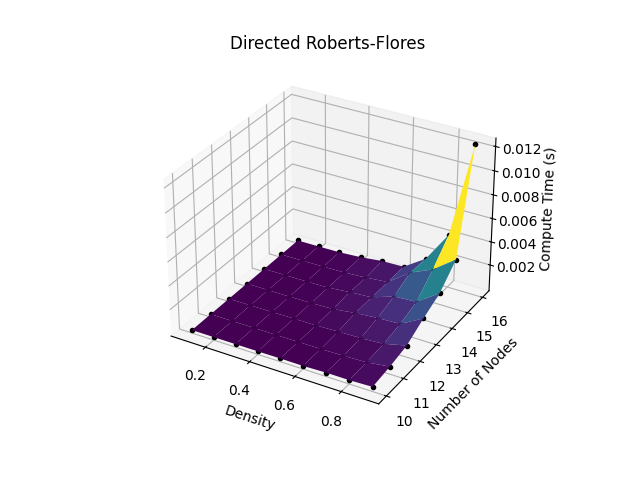
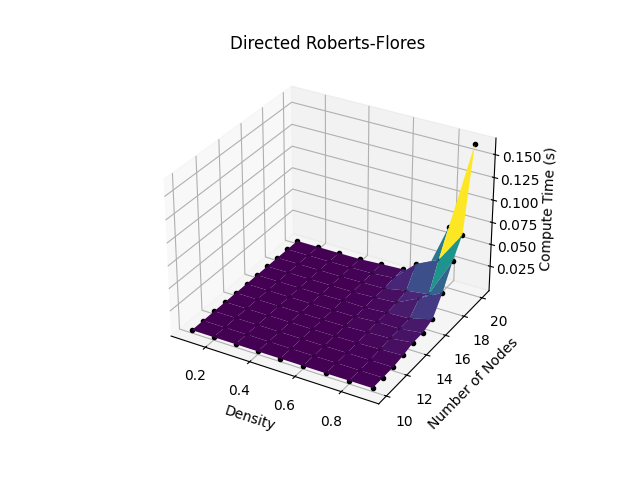
new figures and small adjustments

diff --git a/DirectedFleury.py b/DirectedFleury.py
@@ -89,20 +89,20 @@ class DirectedFleury:
                         else:
                             self.gm[i][j] = -(lb[i][k] + lb[i][k + 1])
 
-    def __eulerian(self, v, start):
+    def __eulerian(self, v):
         for i in range(self.v):
             if 0 <= self.gm[v][i] <= self.v:
                 self.gm[v][i] = -1
                 self.gm[i][v] = -1
 
-                self.__eulerian(i, start)
+                self.__eulerian(i)
 
         self.path.append(v)
 
     def find(self):
         start = 0
 
-        self.__eulerian(start, start)
+        self.__eulerian(start)
         path = self.path[::-1]
 
         if path[0] == path[-1] and len(path) == self.e + 1:

diff --git a/UndirectedFleury.py b/UndirectedFleury.py
@@ -27,20 +27,20 @@ class UndirectedFleury:
                 self.am[a][b] = 1
                 self.am[b][a] = 1
 
-    def __eulerian(self, v, start):
+    def __eulerian(self, v):
         for i in range(self.v):
             if self.am[v][i] == 1:
                 self.am[v][i] = 0
                 self.am[i][v] = 0
 
-                self.__eulerian(i, start)
+                self.__eulerian(i)
 
         self.path.append(v)
 
     def find(self):
         start = 0
 
-        self.__eulerian(start, start)
+        self.__eulerian(start)
         path = self.path[::-1]
 
         if path[0] == path[-1] and len(path) == self.e + 1:

diff --git a/tests.py b/tests.py
@@ -1,5 +1,5 @@
-from random import random
-from time import perf_counter
+from random import random, seed
+from time import perf_counter, time
 import matplotlib.pyplot as plt
 import numpy as np
 
@@ -9,10 +9,11 @@ from UndirectedFleury import UndirectedFleury
 from DirectedFleury import DirectedFleury
 
 # adjustable
+max_nodes = 20
 density = [i/10 for i in range(1, 10)]
-nodes = [i for i in range(10, 21)]
-n_tries = 3
-
+nodes = [i for i in range(10, max_nodes+1)]
+n_tries = 1
+seed(time())
 
 def create_adjacency_matrix(class_, n, d):
     obj = class_()
